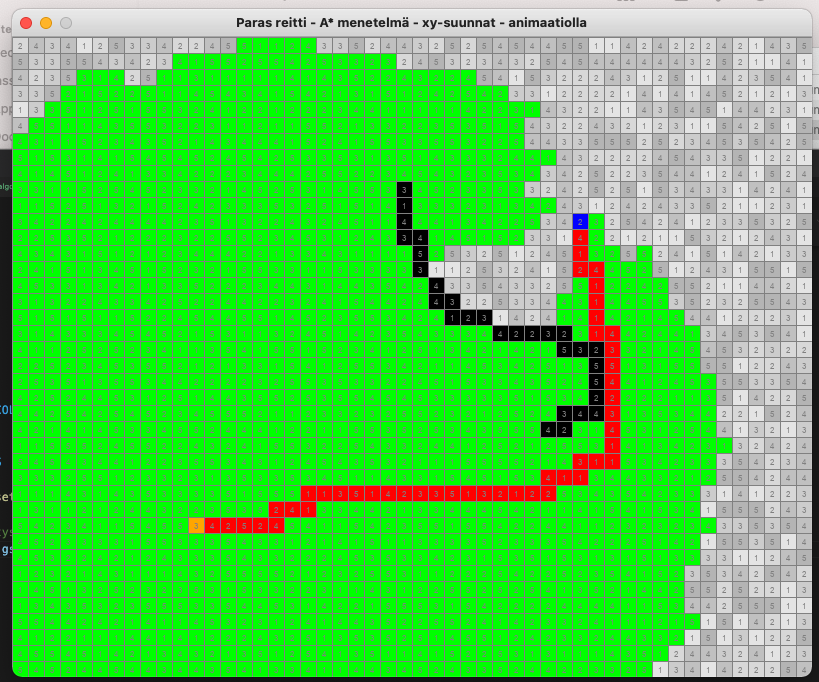
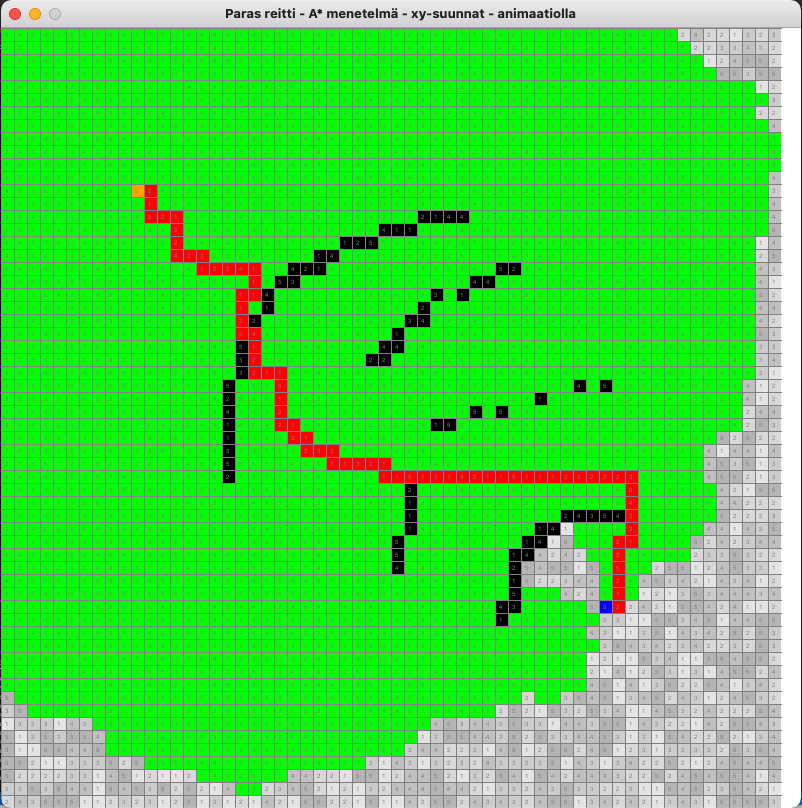
Viikko 3, Pygame, luokka-toteeutus

diff --git a/src/algorithm.py b/src/algorithm.py
@@ -42,7 +42,7 @@ def dijkstra(map, start, end, diagonal, animate):
 		if animate:
 			map.draw()
 
-		node.set_visited()
+		node.set_visited(animate)
 
 	tend = timer()
 	print(f'*** Reittiä ei löytynyt ***\nLaskenta vei {tend-tstart:.3f} sekuntia')
@@ -90,7 +90,7 @@ def astar(map, start, end, diagonal, animate):
 		if animate:
 			map.draw()
 
-		node.set_visited()
+		node.set_visited(animate)
 
 	tend = timer()
 	print(f'*** Reittiä ei löytynyt ***\nLaskenta vei {tend-tstart:.3f} sekuntia')

diff --git a/src/node.py b/src/node.py
@@ -51,8 +51,8 @@ class Node:
 		self.color = ORANGE
 		return self
 
-	def set_visited(self):
+	def set_visited(self, animate):
 		self.visited = True
-		if not self.start:
+		if animate and not self.start:
 			self.color = GREEN
 

diff --git a/viikkoraportit/viikko3.md b/viikkoraportit/viikko3.md
@@ -2,7 +2,7 @@
 
 ### Ohjelman rungon toteutus
 
-<img src="/dokumentaatio/png/viikko3.png" width="750">
+<img src="/dokumentaatio/png/reittikartta03.png" width="750">
 
 Ohjelman runko on toteutettu Pythonilla. Edellisen viikon ohjelma on kokenut täysmuutoksen. Ruutukartan mallinnus ja algoritmit ovat toteutettu luokkien avulla edellisen viikon taulukkopohjaisen toteutuksen sijasta. Visualisointi on nyt toteutettu Pygame-kirjastolla Matplotlib-kirjaston sijasta. Myös käyttöliittymä on toteutettu Pygame-kirjaston avulla hiiri- ja näppäinkomennoin.  
 

diff --git a/dokumentaatio/maarittelydokumentti.md b/dokumentaatio/maarittelydokumentti.md
@@ -1,4 +1,4 @@
-<img src="/dokumentaatio/png/reittikartta02.png" width="750">
+<img src="/dokumentaatio/png/reittikartta03.png" width="750">
 
 ## Aihe
 
